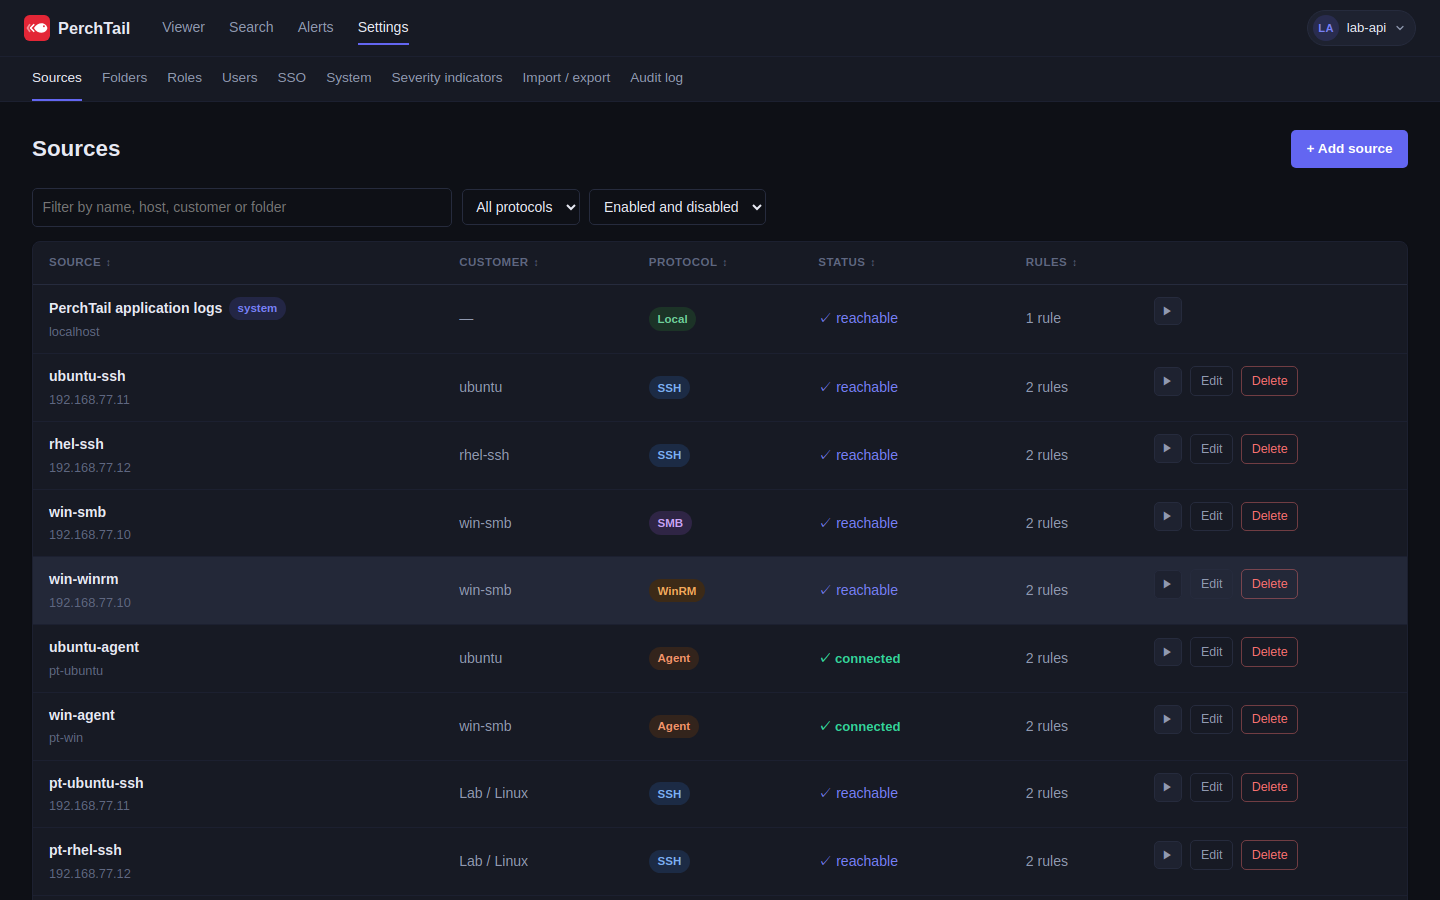
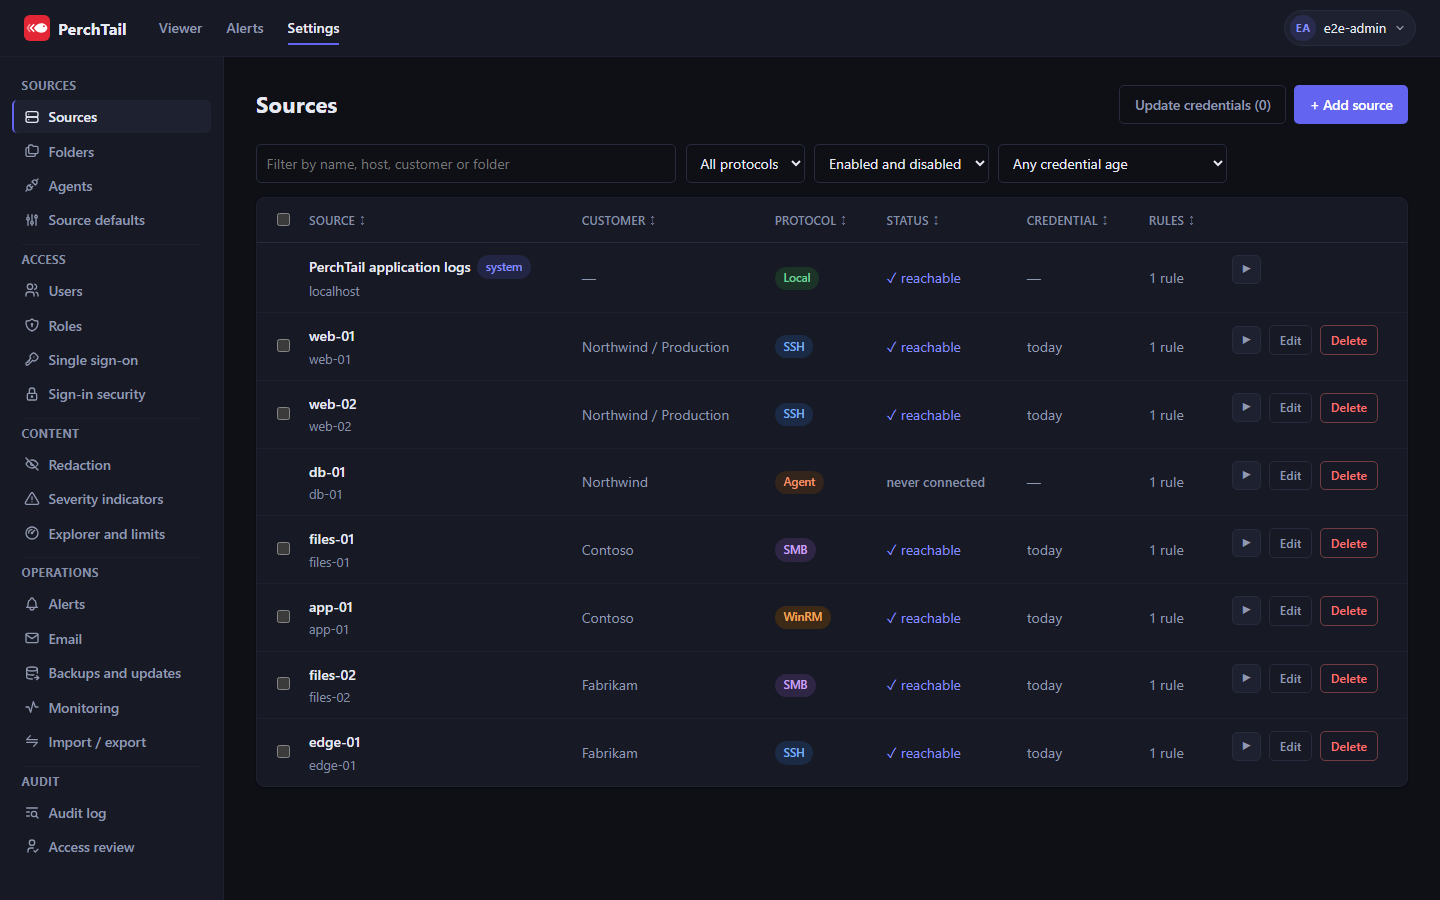
docs: refresh the README and its screenshots
The README describes the product as it is now (the Settings sidebar in five sections with an icon per page, the sources list columns, the viewer's Find all), and its screenshots show today's interface: the sources list, the viewer with Find all, the whole role editor and the Settings sidebar, all made from fictional demo data by a Playwright spec that runs only with README_SCREENSHOTS set (CONTRIBUTING.md says how to remake them).

The Limits card in Settings → Explorer and limits lines up its text and its Save limits button with the rest of the card.

diff --git a/frontend/e2e/readme-screenshots.spec.ts b/frontend/e2e/readme-screenshots.spec.ts
@@ -1,0 +1,196 @@
+import { rmSync, writeFileSync } from 'node:fs'
+import path from 'node:path'
+import { fileURLToPath } from 'node:url'
+import { expect, test, type APIRequestContext, type Page } from '@playwright/test'
+import { loadFixturePaths } from './fixture-paths'
+
+// Remakes the README's screenshots (docs/images/screenshot-*.png) from
+// demo data this spec creates: fictional customers and hosts, never real
+// ones. Not part of the normal suite: it runs only with README_SCREENSHOTS
+// set, against the usual e2e backend (see CONTRIBUTING.md):
+//
+//   README_SCREENSHOTS=1 npx playwright test e2e/readme-screenshots.spec.ts
+//
+// SSH and SMB sources point at the e2e test servers. With README_HOST_NAMES
+// set, each of them uses its own name (web-01, web-02, files-01, files-02, edge-01)
+// as its host instead of 127.0.0.1, for when the machine running the
+// backend resolves those names to the test servers (in its /etc/hosts), so
+// the pictures show host names. The push-agent source has no agent
+// connected.
+
+test.skip(!process.env.README_SCREENSHOTS, 'only with README_SCREENSHOTS set')
+test.use({ viewport: { width: 1440, height: 900 }, colorScheme: 'dark' })
+
+const __dirname = path.dirname(fileURLToPath(import.meta.url))
+const imagesDir = path.join(__dirname, '..', '..', 'docs', 'images')
+
+// What the spec made, deleted again at the end (newest first), so it can
+// run more than once against the same backend.
+const made: string[] = []
+
+async function created(request: APIRequestContext, url: string, data: object): Promise<number> {
+  const response = await request.post(url, { data })
+  expect(response.ok(), `${url}: ${await response.text()}`).toBeTruthy()
+  const id = (await response.json()).id as number
+  if (!url.includes('/rules') && !url.includes('/grants')) made.push(`${url}/${id}`)
+  return id
+}
+
+async function shoot(page: Page, name: string) {
+  // No caret, hover or animation in the picture.
+  await page.mouse.move(0, 0)
+  await page.screenshot({ path: path.join(imagesDir, name), animations: 'disabled', caret: 'hide' })
+}
+
+/** A log with a few errors and warnings among ordinary lines. */
+function demoLog(): string {
+  const lines: string[] = []
+  const services = ['checkout', 'catalog', 'auth', 'orders', 'payments']
+  for (let n = 0; n < 2400; n++) {
+    const time = new Date(Date.UTC(2026, 10, 24, 8, 0, n * 3)).toISOString().replace('T', ' ').slice(0, 19)
+    const service = services[n % services.length]
+    if (n % 37 === 11) {
+      lines.push(`${time} ERROR [${service}] request ${10_000 + n} failed: upstream timed out after 30 s`)
+    } else if (n % 23 === 5) {
+      lines.push(`${time} WARN  [${service}] slow response: ${400 + (n % 9) * 50} ms for /api/${service}`)
+    } else {
+      lines.push(`${time} INFO  [${service}] GET /api/${service}/${n % 97} 200 in ${12 + (n % 40)} ms`)
+    }
+  }
+  return lines.join('\n') + '\n'
+}
+
+test('README screenshots', async ({ page }) => {
+  test.setTimeout(180_000)
+  const request = page.request
+  const fixtures = loadFixturePaths()
+  const log = path.join(fixtures.ssh.base_path, 'app.log')
+  writeFileSync(log, demoLog())
+  try {
+    await screenshots(page, request, fixtures)
+  } finally {
+    for (const url of made.reverse()) await request.delete(url)
+    made.length = 0
+    rmSync(log, { force: true })
+  }
+})
+
+async function screenshots(
+  page: Page,
+  request: APIRequestContext,
+  fixtures: ReturnType<typeof loadFixturePaths>,
+) {
+  const named = !!process.env.README_HOST_NAMES
+
+  // Customers, folders and sources.
+  const northwind = await created(request, '/customers', { name: 'Northwind' })
+  const contoso = await created(request, '/customers', { name: 'Contoso' })
+  const fabrikam = await created(request, '/customers', { name: 'Fabrikam' })
+  const production = await created(request, '/folders', { name: 'Production', customer_id: northwind })
+  const ssh = {
+    protocol: 'ssh',
+    host: fixtures.ssh.host,
+    port: fixtures.ssh.port,
+    base_path: fixtures.ssh.base_path,
+    credential: { username: fixtures.ssh.username, password: fixtures.ssh.password },
+  }
+  const smb = {
+    protocol: 'smb',
+    host: fixtures.smb.host,
+    port: fixtures.smb.port,
+    base_path: fixtures.smb.base_path,
+    credential: { username: fixtures.smb.username, password: fixtures.smb.password },
+  }
+  const winrm = {
+    protocol: 'winrm',
+    host: 'app-01',
+    base_path: 'C:\\Logs\\e2e-fixture',
+    credential: { username: 'svc-logs', password: 'unused-by-the-fake-connector' },
+  }
+  const sources = [
+    { name: 'web-01', customer_id: northwind, folder_id: production, ...ssh },
+    { name: 'web-02', customer_id: northwind, folder_id: production, ...ssh },
+    { name: 'db-01', customer_id: northwind, protocol: 'agent', host: 'db-01', base_path: '/var/log' },
+    { name: 'files-01', customer_id: contoso, ...smb },
+    { name: 'app-01', customer_id: contoso, ...winrm },
+    { name: 'files-02', customer_id: fabrikam, ...smb },
+    { name: 'edge-01', customer_id: fabrikam, ...ssh },
+  ]
+  const ids: Record<string, number> = {}
+  for (const source of sources) {
+    if (named && (source.protocol === 'ssh' || source.protocol === 'smb')) {
+      source.host = source.name
+    }
+    ids[source.name] = await created(request, '/sources', source)
+    await created(request, `/sources/${ids[source.name]}/rules`, { type: 'include', pattern: '**/*.log' })
+    if (source.protocol !== 'agent') await request.post(`/sources/${ids[source.name]}/check`)
+  }
+
+  // The built-in log source's status too.
+  const all = (await (await request.get('/sources')).json()) as { id: number; is_system: boolean }[]
+  for (const source of all.filter((s) => s.is_system)) await request.post(`/sources/${source.id}/check`)
+
+  // A role with global capabilities and grants on customer, folder and source.
+  const role = await created(request, '/roles', {
+    name: 'Support engineers',
+    global_capabilities: ['view_audit_log', 'manage_alerts'],
+  })
+  await created(request, `/roles/${role}/grants`, {
+    scope_type: 'customer',
+    scope_id: northwind,
+    capabilities: ['view', 'download'],
+  })
+  await created(request, `/roles/${role}/grants`, {
+    scope_type: 'folder',
+    scope_id: production,
+    capabilities: ['view', 'download', 'manage_rules'],
+  })
+  await created(request, `/roles/${role}/grants`, {
+    scope_type: 'customer',
+    scope_id: contoso,
+    capabilities: ['view'],
+  })
+  await created(request, `/roles/${role}/grants`, {
+    scope_type: 'source',
+    scope_id: ids['files-01'],
+    capabilities: ['view', 'download'],
+  })
+
+  // 1. Sources.
+  await page.goto('/#/settings/sources')
+  await expect(page.getByRole('heading', { level: 1, name: 'Sources' })).toBeVisible()
+  await expect(page.getByRole('row', { name: /edge-01/ })).toBeVisible()
+  await expect(page.getByText('Loading…', { exact: true })).toHaveCount(0)
+  await shoot(page, 'screenshot-sources.png')
+
+  // 2. The viewer: a log open, the find bar and Find all.
+  await page.goto(`/#/viewer/${ids['web-01']}`)
+  await page.locator('.tree-body').getByRole('button', { name: 'app.log' }).click({ timeout: 20_000 })
+  await expect(page.locator('.tab.active .tab-label')).toContainText('app.log')
+  await page.getByRole('button', { name: 'Find', exact: true }).click()
+  await page.getByRole('textbox', { name: 'Find', exact: true }).fill('ERROR')
+  await page.getByRole('button', { name: 'Find all', exact: true }).click()
+  await expect(page.getByText(/\d+ lines?$/).first()).toBeVisible()
+  // The first match selected: "1 of N" in the find bar.
+  await page.getByRole('textbox', { name: 'Find', exact: true }).press('Enter')
+  await expect(page.getByText(/^1 of \d+$/)).toBeVisible()
+  await shoot(page, 'screenshot-viewer.png')
+
+  // 3. The role editor.
+  // A taller window for this one, so the popup shows every grant.
+  await page.setViewportSize({ width: 1440, height: 1200 })
+  await page.goto(`/#/settings/roles/${role}`)
+  const editor = page.getByRole('dialog')
+  await expect(editor).toBeVisible()
+  for (const target of ['Northwind', 'Contoso', 'Production', 'files-01']) {
+    await expect(editor.getByRole('cell', { name: target, exact: true })).toBeInViewport()
+  }
+  await shoot(page, 'screenshot-role-editor.png')
+  await page.setViewportSize({ width: 1440, height: 900 })
+
+  // 4. Settings: the sidebar with its sections, on a settings page.
+  await page.goto('/#/settings/explorer')
+  await expect(page.getByRole('heading', { level: 1, name: 'Explorer and limits' })).toBeVisible()
+  await expect(page.getByText('Loading…', { exact: true })).toHaveCount(0)
+  await shoot(page, 'screenshot-settings.png')
+}

diff --git a/frontend/src/routes/ExplorerSettings.svelte b/frontend/src/routes/ExplorerSettings.svelte
@@ -224,7 +224,7 @@
   {#if limitsDraft}
     <section class="card">
       <h2 class="section-title">Limits</h2>
-      <p class="hint">
+      <p class="hint section-hint">
         What the server takes on at once, so a few big folders or a script can't hold every worker. A request
         over a limit is answered "busy, try again in a few seconds" instead of waiting.
       </p>
@@ -248,10 +248,10 @@
           </div>
         </div>
       {/each}
-      {#if limitsError}
-        <p class="error">{limitsError}</p>
-      {/if}
-      <div>
+      <div class="setting-row column">
+        {#if limitsError}
+          <p class="error">{limitsError}</p>
+        {/if}
         <button type="button" class="btn btn-ghost" on:click={saveLimits} disabled={limitsSaving || !limitsDirty}>
           {limitsSaving ? 'Saving…' : 'Save limits'}
         </button>

diff --git a/frontend/src/app.css b/frontend/src/app.css
@@ -298,6 +298,11 @@ code,
   color: var(--danger);
   margin: 0;
 }
+/* A card's own hint, below its title: inset like the title and the rows,
+   as Settings -> Redaction does. */
+.settings-blocks .section-hint {
+  margin: 0 1.5rem 0.6rem;
+}
 .settings-blocks .warning {
   color: var(--warning);
   margin: 0.35rem 0 0;

diff --git a/README.md b/README.md
@@ -24,7 +24,7 @@
 - **Sources:** SSH/SFTP, SMB and WinRM without installing anything on the server (WinRM also through a read-only JEA endpoint that needs no administrator account), and a Go push agent for hosts that can't be reached inbound. A source can read several folders. Every open is a fresh fetch; nothing is mirrored.
 - **Viewer:** one explorer across every source, as a list or a tree, with each file's size, a status dot per source, folders that refresh themselves and an advanced filter across sources and folders. A CodeMirror editor with tabs from several servers, Tail that fetches only the new lines, one find bar with Find all over files of any size, compare, beautify, highlights and bookmarks. One search box finds sources and file names across every source, from a file-name index that stores no content. Live alerts read only what was appended and call a webhook. Redaction hides secrets, card numbers and personal data in what users open, Tail and download, on the server or on the push agent's host.
 - **Access:** roles scoped by customer, folder and source; local accounts with a password policy (NIST defaults), TOTP, required for administrators and optionally for everyone, and optional password recovery by email; OIDC single sign-on with group-to-role mapping; an access report of who holds what, where, with flags for privileged, inactive and MFA-less accounts, on its own Settings page and as JSON or CSV, for access reviews.
-- **Operations:** settings in a sidebar grouped in sections, edited in popups, an update check, liveness and readiness probes, a detailed health endpoint with Prometheus metrics and Zabbix templates, an audit log that is hash-chained, verified daily and records where each action came from, including refused requests, bulk YAML import and export, server-side limits on listings and downloads running at once (Settings → Explorer and limits), and a system SMTP server for email, always over verified TLS (Settings → Email).
+- **Operations:** settings in a sidebar in five sections (Sources, Access, Content, Operations, Audit), with an icon for each page, edited in popups, an update check, liveness and readiness probes, a detailed health endpoint with Prometheus metrics and Zabbix templates, an audit log that is hash-chained, verified daily and records where each action came from, including refused requests, bulk YAML import and export, server-side limits on listings and downloads running at once (Settings → Explorer and limits), and a system SMTP server for email, always over verified TLS (Settings → Email).
 - **Security work so far:** login lockout, CSP and security headers, credential encryption with key rotation, SSH host-key pinning, session revocation, a DNS-rebind-safe webhook fetcher, encrypted online backups, push agents upgraded from the portal only to binaries signed with the release key, signed images and release files, CodeQL, gosec, Bandit, zizmor, fuzz and property tests in CI.
 
 **What's next.** 0.7 is the last feature release before 1.0. 1.0 adds no features: load tests and a sizing guide, security controls in CI and releases, and an internal pentest. PostgreSQL, high availability, user groups, temporary access, notifications, API tokens and an external pentest come after 1.0. See [ROADMAP.md](ROADMAP.md) and [CHANGELOG.md](CHANGELOG.md).
@@ -75,17 +75,21 @@ verify anything that matters to your decision against current docs.
 
 ## Screenshots
 
-Sources, with their customer, protocol and status, and the actions on each row:
+Sources, with their customer and folder, protocol, status and credential age, and the actions on each row:
 
-![Sources list with SSH, SMB, WinRM and push-agent sources, their customer, protocol badge and status](docs/images/screenshot-sources.png)
+![Settings, Sources: the sidebar of Settings sections on the left, and a table of sources for the customers Northwind, Contoso and Fabrikam over SSH, SMB, WinRM and a push agent, each reachable or, for the push agent, never connected, with the age of its credential, its rules and Edit and Delete buttons](docs/images/screenshot-sources.png)
 
-The viewer: the explorer with file sizes and a status dot per source, a log open with error lines tinted, the find bar ("1 of 1,823") and Find all listing every matching line below:
+The viewer: the explorer with file sizes and a status dot per source, a log open with its error line tinted, the find bar ("1 of 65") and Find all listing every matching line below:
 
-![Viewer with app.log open, the find bar searching ERROR and the Find all panel listing the matching lines](docs/images/screenshot-viewer.png)
+![Viewer: the explorer lists the sources with a status dot each and the files of web-01 with their sizes; app.log is open with its ERROR line tinted, the find bar searching ERROR, and the Find all panel below listing the 65 matching lines with their line numbers](docs/images/screenshot-viewer.png)
 
 A role in its editor, opened over the roles list: global capabilities and access grants, the most specific scope winning, from customer down to a single source:
 
-![Role editor in a popup, with switches for global capabilities and a table of customer access grants](docs/images/screenshot-role-editor.png)
+![Role editor in a popup over the roles list: the name Support engineers, switches for the global capabilities with View audit log and alerts turned on, and access grants for the customers Northwind and Contoso, the folder Production and the source files-01, with their capabilities](docs/images/screenshot-role-editor.png)
+
+Settings, in five sections in the sidebar, each page with its own icon, here Explorer and limits:
+
+![Settings, Explorer and limits: the sidebar with the Sources, Access, Content, Operations and Audit sections and an icon for each page, the Explorer card with the connections view, file order, folder refresh and Tail interval, and the Limits card with the concurrency limits and entries per listing](docs/images/screenshot-settings.png)
 
 A grant gives, in its customer, folder or source, any of `view` (browse and open files), `download` (whole files and folder ZIPs), `manage_rules` (edit the visibility rules) and `manage_source` (shown as "Manage sources": change the sources and folders there). The `create_source` global capability adds sources and folders where the role has `manage_source`; changing, moving or deleting an existing source (its settings, agent token, saved credential and agent upgrades), or moving or deleting a folder, also needs `manage_source` on it (and, to move it, where it goes), and a move can't give the person moving it more access than they had; renaming a folder needs `manage_source` on it, and renaming or deleting a customer needs `manage_source` in a grant on that customer. Only a super admin creates customers, and everyone else sees only the customers and folders their grants reach. `manage_rules` only governs the rules. Short of super admin, someone with `manage_users` or `manage_roles` can't change their own role or edit the role they hold, and can only hand out roles and grants within their own: no global capability they lack, and no capability in a customer, folder or source that they don't hold there themselves.
 

diff --git a/CONTRIBUTING.md b/CONTRIBUTING.md
@@ -100,6 +100,16 @@ This builds the frontend and starts its own isolated backend on port 8001 with a
 
 `frontend/e2e/accessibility.spec.ts` runs axe-core on each main page and fails on serious or critical WCAG 2.0/2.1 A and AA violations, listing each rule, its impact and the selectors of the offending nodes. A new page, or a new popup on an existing one, gets its own test in that spec: open it, wait for it to finish loading, then check it. Fix what it finds in the component; only a third-party node that can't be fixed by configuration (such as CodeMirror's scroller) is excluded, with a comment saying why.
 
+#### The README's screenshots
+
+`frontend/e2e/readme-screenshots.spec.ts` remakes the images in `docs/images/` from demo data it creates (fictional customers and hosts) and deletes again. It doesn't run in the normal suite: it is skipped unless `README_SCREENSHOTS` is set. From `frontend/`, with the e2e backend and its sshd/smbd test servers:
+
+```bash
+README_SCREENSHOTS=1 npx playwright test e2e/readme-screenshots.spec.ts
+```
+
+The SSH and SMB sources point at the test servers by address; with `README_HOST_NAMES=1` they use their own names (`web-01`, `web-02`, `files-01`, `files-02`, `edge-01`) as hosts instead, for a backend whose machine resolves those names to the test servers (in its `/etc/hosts`). Optimize the PNGs afterwards (for example `optipng -o5 -strip all docs/images/*.png`) and check each one before committing it.
+
 ### Push agent (Go)
 
 The agent in `agent/` is built with Go 1.27 (`go 1.27.0` in `agent/go.mod`; CI uses the latest 1.27 release). Run the checks CI runs from `agent/`:

diff --git a/CHANGELOG.md b/CHANGELOG.md
@@ -16,6 +16,7 @@ release ships (0.x releases may include breaking changes between minors).
 - On a push agent, expanding a `.zip`, `.tar.gz` or `.tgz` in the explorer and opening, reloading or downloading a file inside one are now done on the agent's host also when redaction doesn't apply to the source: the agent lists the archive and sends only the file asked for, instead of sending the whole archive to the server first. The rules are still checked on the server for each file inside, before it is asked for. A whole archive downloaded, a folder ZIP and a plain `.gz` file are still sent whole. As with redaction on, a file inside a `.zip` compressed with a method the agent can't read now answers "The source returned an error" instead of the 409 `archive_member_unreadable`.
 
 ### Fixed
+- Settings → Explorer and limits: the text under the Limits card's title, and its Save limits button, were against the card's left edge; they now line up with the rest of the card.
 - Switching tabs, coming back to the Viewer from another page, or highlighting patterns arriving no longer rebuilds the open file, which froze the page for seconds with large files; each tab also keeps its place and selection.
 - A push agent's old connection, closed when the agent reconnects (for example after an upgrade from the portal), no longer logs an error with a traceback.
 - Listing, opening or downloading from an archive that doesn't exist on a local-disk source answers 404 instead of a server error.
